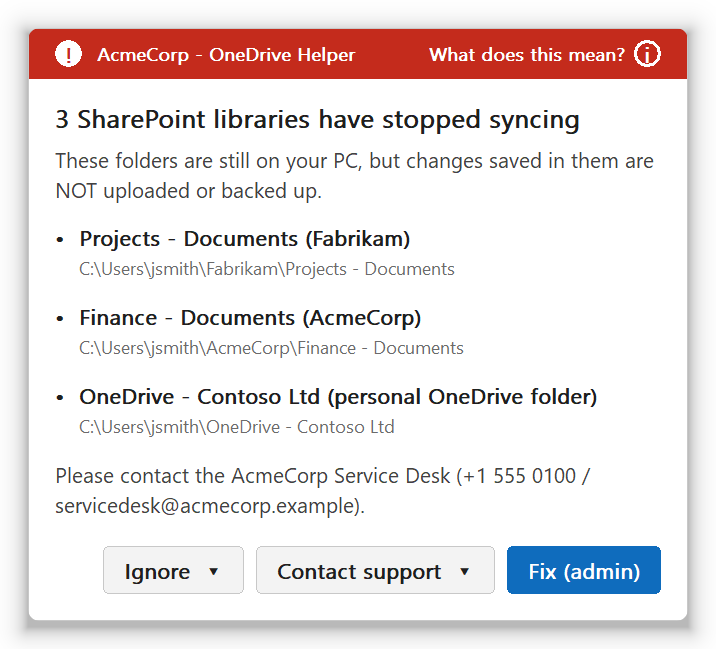
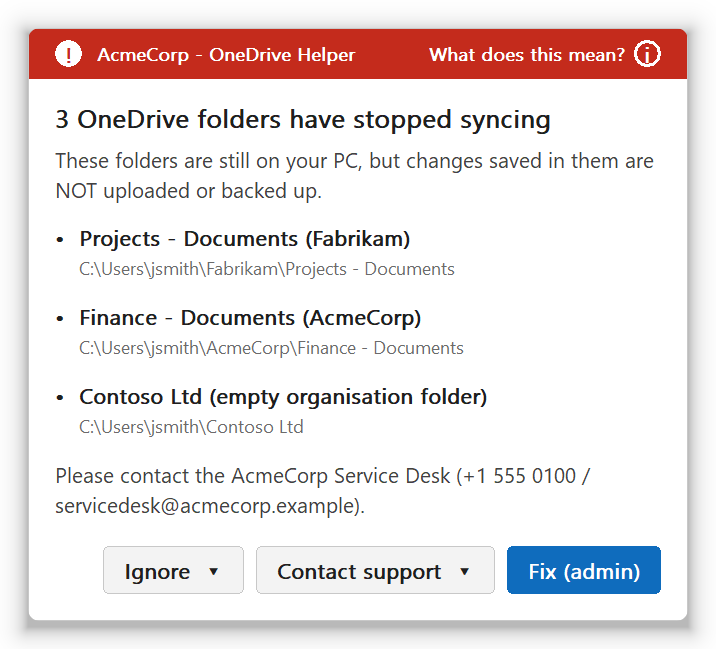
Stop flagging personal OneDrive folders (0.8.1)
A fresh PC signed in to a work account always has an empty, unused
"OneDrive" placeholder, which the folder check reported as a SharePoint
library that had stopped syncing. Personal folders are no longer reported
(and still never scanned as organisation folders). The alert heading now
says "OneDrive folder" when a leftover organisation folder is listed.

Generated with [Devin](https://devin.ai)

Changed region(s): [[0.1229, 0.5855, 0.8296, 0.678], [0.0922, 0.1541, 0.8296, 0.2157]]

diff --git a/internal/onedrive/onedrive_test.go b/internal/onedrive/onedrive_test.go
@@ -204,26 +204,50 @@ func TestFindOrphansEmptyAndPlainOrgFolders(t *testing.T) {
 	}
 }
 
-func TestFindOrphansPersonalAndKnownFolders(t *testing.T) {
+// Personal OneDrive folders are never reported, nor scanned as organisation
+// folders: a fresh PC signed in to a work account always has an unused,
+// empty "OneDrive" placeholder next to "OneDrive - <Org>".
+func TestFindOrphansIgnoresPersonalFolders(t *testing.T) {
 	profile := `C:\Users\jsmith`
-	live, old := filepath.Join(profile, "OneDrive - Contoso"), filepath.Join(profile, "OneDrive - OLD COMPANY")
+	live, plain, old := filepath.Join(profile, "OneDrive - Contoso"), filepath.Join(profile, "OneDrive"), filepath.Join(profile, "OneDrive - OLD COMPANY")
 	odIni := "[.ShellClassInfo]\r\nIconResource=C:\\Program Files\\Microsoft OneDrive\\OneDrive.exe,5"
 	fs := fakeFS{
 		dirs: map[string][]fsutil.Entry{
-			Clean(profile): {cloud("OneDrive - Contoso"), cloud("OneDrive - OLD COMPANY"), dir("OneDrive notes")},
+			Clean(profile): {cloud("OneDrive - Contoso"), dir("OneDrive"), cloud("OneDrive - OLD COMPANY"), dir("OneDrive notes")},
+			Clean(plain):   {{Name: "desktop.ini", Attr: 0x6}},
 			Clean(old):     {dir("Documents")},
 		},
-		files: map[string]string{Clean(filepath.Join(old, "desktop.ini")): odIni},
+		files: map[string]string{
+			Clean(filepath.Join(plain, "desktop.ini")): odIni,
+			Clean(filepath.Join(old, "desktop.ini")):   odIni,
+		},
 	}
-	in := Inputs{ProfileDir: profile, Accounts: []Account{{Key: "Business1", UserFolder: live, SyncedFolders: []string{live}}}}
+	in := Inputs{
+		ProfileDir: profile,
+		Accounts:   []Account{{Key: "Business1", UserFolder: live, SyncedFolders: []string{live}}},
+		Providers:  []Provider{{MountPoint: old, LibraryType: "mysite"}, {MountPoint: plain, LibraryType: "personal"}},
+	}
+	if got := FindOrphans(in, fs); len(got) != 0 {
+		t.Fatalf("personal OneDrive folders must not be flagged: %+v", got)
+	}
+}
+
+func TestFindOrphansKnownFolders(t *testing.T) {
+	profile := `C:\Users\jsmith`
+	org := filepath.Join(profile, "Fabrikam")
+	lib := filepath.Join(org, "Bids - Documents")
+	fs := fakeFS{
+		dirs: map[string][]fsutil.Entry{
+			Clean(profile): {dir("Fabrikam")},
+			Clean(org):     {cloud("Bids - Documents")},
+		},
+	}
+	in := Inputs{ProfileDir: profile, Providers: []Provider{{MountPoint: lib, LibraryType: "teamsite"}}}
 	got := FindOrphans(in, fs)
-	if len(got) != 1 || got[0].Path != old || !got[0].Personal || got[0].DisplayName() != "OneDrive - OLD COMPANY (personal OneDrive folder)" {
-		t.Fatalf("expected only the old personal folder (not the live one or a plain 'OneDrive notes' folder): %+v", got)
+	if len(got) != 1 || got[0].Path != lib || len(got[0].KnownFolders) != 0 {
+		t.Fatalf("expected only the library, with no known folders: %+v", got)
 	}
-	if len(got[0].KnownFolders) != 0 {
-		t.Errorf("no known folders expected: %v", got[0].KnownFolders)
-	}
-	in.ShellFolders = map[string]string{"Personal": filepath.Join(old, "Documents"), "Desktop": filepath.Join(live, "Desktop")}
+	in.ShellFolders = map[string]string{"Personal": filepath.Join(lib, "Documents"), "Desktop": filepath.Join(profile, "Desktop")}
 	got = FindOrphans(in, fs)
 	if len(got) != 1 || strings.Join(got[0].KnownFolders, ",") != "Documents" {
 		t.Errorf("Documents redirected into the orphan must be reported: %+v", got)

diff --git a/internal/onedrive/orphans.go b/internal/onedrive/orphans.go
@@ -22,9 +22,6 @@ type Orphan struct {
 	// EmptyOrg marks a leftover organisation folder that contains no
 	// libraries at all (Path == TenantRoot). There is nothing to re-sync.
 	EmptyOrg bool
-	// Personal marks a personal "OneDrive - <Org>" folder whose account is no
-	// longer signed in on this PC (Path == TenantRoot).
-	Personal bool
 	// KnownFolders lists Windows folders (Desktop, Documents, ...) that are
 	// redirected into this folder. Such folders are never removed automatically.
 	KnownFolders []string
@@ -33,14 +30,10 @@ type Orphan struct {
 // Org is the organisation folder name, e.g. "Contoso".
 func (o Orphan) Org() string { return filepath.Base(o.TenantRoot) }
 
-// DisplayName is "Library (Org)", "Org (empty organisation folder)" or
-// "OneDrive - Org (personal OneDrive folder)".
+// DisplayName is "Library (Org)" or "Org (empty organisation folder)".
 func (o Orphan) DisplayName() string {
-	switch {
-	case o.EmptyOrg:
+	if o.EmptyOrg {
 		return o.Name + " (empty organisation folder)"
-	case o.Personal:
-		return o.Name + " (personal OneDrive folder)"
 	}
 	if o.TenantRoot == "" {
 		return o.Name
@@ -232,26 +225,10 @@ func FindOrphans(in Inputs, fs FS) []Orphan {
 		}
 	}
 	var out []Orphan
-	personal := map[string]bool{}
-	addPersonal := func(p string) {
-		c := Clean(p)
-		if c == "" || personal[c] || c == profile || isVolumeRoot(c) || overlaps(c, active) {
-			return
-		}
-		personal[c] = true
-		out = append(out, Orphan{Path: p, TenantRoot: p, Name: filepath.Base(p), Personal: true})
-	}
-	// Personal OneDrive folders recorded by OneDrive that still exist.
-	for _, p := range in.Providers {
-		if t := strings.ToLower(p.LibraryType); p.MountPoint != "" && (t == "personal" || t == "mysite") {
-			if _, err := fs.ReadDir(p.MountPoint); err == nil {
-				addPersonal(p.MountPoint)
-			}
-		}
-	}
 	// Folders in the profile carrying OneDrive's desktop.ini: plain ones are
-	// organisation folders; "OneDrive..." placeholder ones are personal
-	// OneDrive folders (orphaned when no signed-in account uses them).
+	// organisation folders. "OneDrive..." ones are personal OneDrive folders,
+	// which are never reported (a fresh PC always has an unused, empty
+	// "OneDrive" folder) and never scanned as organisation folders.
 	if in.ProfileDir != "" {
 		entries, _ := fs.ReadDir(in.ProfileDir)
 		for _, e := range entries {
@@ -263,7 +240,7 @@ func FindOrphans(in Inputs, fs FS) []Orphan {
 			odIni := err == nil && strings.Contains(strings.ToLower(decodeText(b)), "onedrive.exe")
 			switch {
 			case strings.HasPrefix(strings.ToLower(e.Name), "onedrive") && (e.IsCloud() || odIni):
-				addPersonal(dir)
+				continue
 			case odIni && e.Attr&fsutil.AttrReparsePoint == 0:
 				addRoot(dir)
 			}

diff --git a/internal/remediate/flow.go b/internal/remediate/flow.go
@@ -240,7 +240,7 @@ func UserFlow(agentExe string, lg *log.Logger, busy func(bool), stop func() bool
 	manual := false
 	for _, it := range plan.Items {
 		list.WriteString("• " + it.Orphan.DisplayName() + "\n    " + ResyncNote(it.Orphan) + "\n")
-		manual = manual || (!it.Orphan.CanResync() && !it.Orphan.EmptyOrg && !it.Orphan.Personal)
+		manual = manual || (!it.Orphan.CanResync() && !it.Orphan.EmptyOrg)
 	}
 	step3 := "  3. Ask OneDrive to sync the libraries again\n"
 	if manual {
@@ -345,8 +345,6 @@ func ResyncNote(o onedrive.Orphan) string {
 		return "Contains your " + strings.Join(o.KnownFolders, "/") + " folder, so it can only be fixed by your support team."
 	case o.EmptyOrg:
 		return "Empty leftover folder - it will simply be removed."
-	case o.Personal:
-		return "Old copy of a personal OneDrive that is no longer being synced (for example after your organisation was renamed, or an account was removed). Anything saved here is not backed up."
 	case o.CanResync():
 		return "Will be synced again automatically."
 	case o.WebURL != "":
@@ -361,13 +359,9 @@ func Resync(orphans []onedrive.Orphan, lg *log.Logger) {
 	cfg := config.Load()
 	ev := elog.Open()
 	defer ev.Close()
-	var auto, manual, none, personal []string
+	var auto, manual, none []string
 	for _, o := range orphans {
 		if o.EmptyOrg || exists(o.Path) {
-			continue
-		}
-		if o.Personal {
-			personal = append(personal, o.Name)
 			continue
 		}
 		switch {
@@ -388,7 +382,7 @@ func Resync(orphans []onedrive.Orphan, lg *log.Logger) {
 			none = append(none, o.DisplayName())
 		}
 	}
-	if len(auto)+len(manual)+len(none)+len(personal) == 0 {
+	if len(auto)+len(manual)+len(none) == 0 {
 		return
 	}
 	ev.Info(elog.ResyncRequested, fmt.Sprintf("Re-sync requested. Automatic: %v; manual: %v; unknown: %v", auto, manual, none))
@@ -401,10 +395,6 @@ func Resync(orphans []onedrive.Orphan, lg *log.Logger) {
 	}
 	if len(none) > 0 {
 		b.WriteString("These libraries must be re-added manually. " + cfg.SupportContact() + "\n• " + strings.Join(none, "\n• ") + "\n\n")
-	}
-	if len(personal) > 0 {
-		b.WriteString("These old personal OneDrive folders were removed (your files were saved first). Files that were already in the cloud are still there:\n• " +
-			strings.Join(personal, "\n• ") + "\n")
 	}
 	winapi.Info(cfg.Title(), b.String())
 }

diff --git a/internal/remediate/buildplan_test.go b/internal/remediate/buildplan_test.go
@@ -143,11 +143,12 @@ func TestPlanRefusesFolderThatIsAJunction(t *testing.T) {
 	profile := t.TempDir()
 	target := filepath.Join(t.TempDir(), "Important")
 	must(t, os.MkdirAll(target, 0o755))
-	must(t, os.WriteFile(filepath.Join(target, "keep.txt"), []byte("x"), 0o644))
-	link := filepath.Join(profile, "OneDrive - Old Ltd")
+	ini := filepath.Join(target, "desktop.ini")
+	must(t, os.WriteFile(ini, []byte("[.ShellClassInfo]\r\nIconResource=C:\\Program Files\\Microsoft OneDrive\\OneDrive.exe,6"), 0o644))
+	link := filepath.Join(profile, "Old Ltd") // an empty organisation folder
 	junction(t, link, target)
 	withPlanEnv(t, onedrive.Inputs{ProfileDir: profile,
-		Providers: []onedrive.Provider{{MountPoint: link, LibraryType: "personal"}}}, onedrive.StateNotRunning)
+		Providers: []onedrive.Provider{{MountPoint: filepath.Join(link, "Gone - Documents"), LibraryType: "teamsite"}}}, onedrive.StateNotRunning)
 	p, err := plan(t, profile)
 	if err != nil {
 		t.Fatal(err)
@@ -155,7 +156,7 @@ func TestPlanRefusesFolderThatIsAJunction(t *testing.T) {
 	if len(p.Items) != 0 || len(p.LinkRefused) != 1 {
 		t.Fatalf("a folder that is itself a junction must be refused: items %+v refused %v", p.Items, p.LinkRefused)
 	}
-	if _, err := os.Stat(filepath.Join(target, "keep.txt")); err != nil {
+	if _, err := os.Stat(ini); err != nil {
 		t.Error("the junction's target must be untouched")
 	}
 }

diff --git a/internal/agent/status.go b/internal/agent/status.go
@@ -257,8 +257,7 @@ func Report(c config.Config, s Status, logPath string) string {
 // sample data (used for visual checks).
 func PreviewStatus(ui *popup.Manager, c config.Config) {
 	s := Status{At: time.Now(), Configured: true, Running: true, Orphans: []onedrive.Orphan{
-		{Name: "OneDrive - Contoso Ltd", Path: `C:\Users\jsmith\OneDrive - Contoso Ltd`,
-			TenantRoot: `C:\Users\jsmith\OneDrive - Contoso Ltd`, Personal: true},
+		{Name: "Contoso Ltd", Path: `C:\Users\jsmith\Contoso Ltd`, TenantRoot: `C:\Users\jsmith\Contoso Ltd`, EmptyOrg: true},
 		{Name: "Bids Team - Documents", Path: `C:\Users\jsmith\Fabrikam\Bids Team - Documents`, TenantRoot: `C:\Users\jsmith\Fabrikam`},
 	}}
 	nop := Actions{Relaunch: func() {}, Snooze: func(string, string) {}, Support: func() {}, Email: func() {}, Website: func() {},

diff --git a/internal/agent/messages.go b/internal/agent/messages.go
@@ -119,9 +119,15 @@ func orphanItems(orphans []onedrive.Orphan, note func(onedrive.Orphan) string) (
 }
 
 func orphanSpec(c config.Config, orphans []onedrive.Orphan, a Actions) popup.Spec {
-	title := "A SharePoint library has stopped syncing"
+	one, many := "A SharePoint library has", "SharePoint libraries have"
+	for _, o := range orphans {
+		if o.EmptyOrg {
+			one, many = "A OneDrive folder has", "OneDrive folders have"
+		}
+	}
+	title := one + " stopped syncing"
 	if len(orphans) > 1 {
-		title = fmt.Sprintf("%d SharePoint libraries have stopped syncing", len(orphans))
+		title = fmt.Sprintf("%d %s stopped syncing", len(orphans), many)
 	}
 	items, more := orphanItems(orphans, nil)
 	footer := c.SupportContact()

diff --git a/internal/agent/docs.go b/internal/agent/docs.go
@@ -26,7 +26,7 @@ func DemoOrphans() []onedrive.Orphan {
 			Library: &onedrive.Library{UserEmail: "jsmith@acmecorp.example", WebURL: "https://fabrikam.sharepoint.com/sites/projects"}},
 		{Name: "Finance - Documents", Path: `C:\Users\jsmith\AcmeCorp\Finance - Documents`, TenantRoot: `C:\Users\jsmith\AcmeCorp`,
 			WebURL: "https://acmecorp.sharepoint.com/sites/finance"},
-		{Name: "OneDrive - Contoso Ltd", Path: `C:\Users\jsmith\OneDrive - Contoso Ltd`, TenantRoot: `C:\Users\jsmith\OneDrive - Contoso Ltd`, Personal: true},
+		{Name: "Contoso Ltd", Path: `C:\Users\jsmith\Contoso Ltd`, TenantRoot: `C:\Users\jsmith\Contoso Ltd`, EmptyOrg: true},
 	}
 }
 

diff --git a/internal/agent/agent_test.go b/internal/agent/agent_test.go
@@ -88,6 +88,9 @@ func TestOrphanSpec(t *testing.T) {
 	if len(s.Items) != maxListed || s.Items[0].Path != `C:\Users\d\Org\A` || s.Items[0].Title != "•  A (Org)" {
 		t.Errorf("items: %+v", s.Items)
 	}
+	if got := orphanSpec(cfg, []onedrive.Orphan{{Name: "Old", Path: `C:\Users\d\Old`, TenantRoot: `C:\Users\d\Old`, EmptyOrg: true}}, Actions{}).Title; got != "A OneDrive folder has stopped syncing" {
+		t.Errorf("a leftover organisation folder is not a SharePoint library: %q", got)
+	}
 	var labels []string
 	for _, b := range s.Buttons {
 		labels = append(labels, b.Label)

diff --git a/cmd/OneDriveHelper/main.go b/cmd/OneDriveHelper/main.go
@@ -191,8 +191,6 @@ func check() error {
 			fmt.Printf("    contains the user's %s folder - will not be fixed automatically\n", strings.Join(o.KnownFolders, "/"))
 		case o.EmptyOrg:
 			fmt.Printf("    empty leftover organisation folder (nothing to re-sync)\n")
-		case o.Personal:
-			fmt.Printf("    old personal OneDrive folder that no signed-in account syncs\n")
 		case o.CanResync():
 			fmt.Printf("    re-sync: %s\n", o.Library.ResyncURL())
 		case o.WebURL != "":

diff --git a/internal/remediate/remediate.go b/internal/remediate/remediate.go
@@ -215,8 +215,6 @@ func (p *Plan) Summary() string {
 		switch {
 		case it.Orphan.EmptyOrg:
 			b.WriteString("    Empty leftover organisation folder; it will just be removed.\n")
-		case it.Orphan.Personal:
-			b.WriteString("    Old personal OneDrive folder that no signed-in account syncs any more; nothing to re-sync.\n")
 		case it.Orphan.CanResync():
 			b.WriteString("    Will be re-synced automatically afterwards.\n")
 		case it.Orphan.WebURL != "":

diff --git a/README.md b/README.md
@@ -2,8 +2,10 @@
 
 A small Windows tool that keeps an eye on OneDrive for your users, and tells them (and you) when something has quietly gone wrong.
 
-**Current version: 0.8.0** ([release notes and downloads](https://github.com/denismcapple/OneDriveHelper/releases/latest)). To see which version a PC is running, hover over the OneDrive Helper icon next to the clock, or run `"C:\Program Files\OneDriveHelper\OneDriveHelper.exe" version`.
+**Current version: 0.8.1** ([release notes and downloads](https://github.com/denismcapple/OneDriveHelper/releases/latest)). To see which version a PC is running, hover over the OneDrive Helper icon next to the clock, or run `"C:\Program Files\OneDriveHelper\OneDriveHelper.exe" version`.
 
+> **New in 0.8.1: no more false alarms on new PCs.** Personal OneDrive folders (`OneDrive`, `OneDrive - Something`) are no longer reported. A freshly set-up PC signed in to a work account always has an empty, unused `OneDrive` folder, which 0.7.0 and 0.8.0 wrongly flagged as "stopped syncing". The alert's heading now also says "OneDrive folder" rather than "SharePoint library" when the list includes a leftover organisation folder.
+>
 > **New in 0.8.0: a much safer fix.** The folder fix is the only part of the tool that deletes anything, so it now moves each folder out of the way before saving it, deletes only files it has proven it saved, puts everything back if anything is in doubt, and recovers by itself if it's interrupted. Upgrades wait for a fix in progress, and roll back if they fail. The details are in [How the fix works](#how-the-fix-works).
 
 <p align="center">
@@ -26,7 +28,8 @@ We got tired of finding out about these the hard way, so we wrote something that
 * **Finds folders that have stopped syncing.** It compares what's on disk with what OneDrive is actually syncing. It catches:
   * library folders OneDrive has dropped
   * leftover organisation folders
-  * old personal `OneDrive - Something` folders that no account uses any more
+
+  Personal OneDrive folders (`OneDrive`, `OneDrive - Something`) are never flagged.
 * **Explains it in plain English.** Every alert has a **What does this mean?** link written for people who don't know or care how OneDrive works.
 * **Makes it easy to get help.** **Contact support** offers to e-mail your service desk with a full diagnostic report already in the message, or to open your support website.
 * **Fixes broken folders safely**, after an administrator approves. It moves the folder aside, saves a copy of every file stored on the PC, deletes only the files it has proven it saved, then asks OneDrive to sync the library again. If anything is in doubt, nothing is deleted and the folder goes back where it was.
@@ -70,7 +73,7 @@ Each alert can be ignored for a while (5 minutes, 30 minutes, until the next res
 
 <img src="docs/images/tray-icons.png" width="160" alt="Tray icons: green tick, amber and red exclamation marks">
 
-Hover over it to see the version and a one-line summary, for example "AcmeCorp - OneDrive Helper v0.8.0 / Everything looks good". Click it to see the status window (the screenshot at the top of this page), which also lists any fix that didn't finish. Right-click for:
+Hover over it to see the version and a one-line summary, for example "AcmeCorp - OneDrive Helper v0.8.1 / Everything looks good". Click it to see the status window (the screenshot at the top of this page), which also lists any fix that didn't finish. Right-click for:
 
 * show status
 * show alerts again
@@ -267,15 +270,15 @@ RMM agents run scripts as SYSTEM, which already has the admin rights the install
 
 ### Install script (PowerShell)
 
-This works in NinjaOne, Datto RMM, N-able, ConnectWise Automate, Atera, Kaseya, Intune platform scripts and anything else that can run PowerShell as SYSTEM. It's filled in for v0.8.0; for a later release, change the version and copy the two checksums from that release's `SHA256SUMS.txt`. Paste your customer's settings into the JSON block.
+This works in NinjaOne, Datto RMM, N-able, ConnectWise Automate, Atera, Kaseya, Intune platform scripts and anything else that can run PowerShell as SYSTEM. It's filled in for v0.8.1; for a later release, change the version and copy the two checksums from that release's `SHA256SUMS.txt`. Paste your customer's settings into the JSON block.
 
 ```powershell
 # OneDrive Helper: install or upgrade with customer settings
 $ErrorActionPreference = 'Stop'
-$Version = 'v0.8.0'
+$Version = 'v0.8.1'
 $Hashes  = @{                       # from SHA256SUMS.txt on the release page
[4 lines of base64/hex data omitted]
 }
 $Settings = @'
 {
@@ -457,10 +460,9 @@ OneDrive keeps several records of what it syncs, and once a library is dropped t
 
 OneDrive's provider list is only used as history, because it keeps entries for libraries it stopped syncing long ago.
 
-The organisation folders OneDrive creates in the profile (they carry a OneDrive `desktop.ini`) are then checked. Anything inside one that isn't being synced is reported. So are:
+The organisation folders OneDrive creates in the profile (they carry a OneDrive `desktop.ini`) are then checked. Anything inside one that isn't being synced is reported. So is an organisation folder that's empty apart from `desktop.ini`.
 
-* an organisation folder that's empty apart from `desktop.ini`
-* an old `OneDrive - Something` folder that no signed-in account uses
+Personal OneDrive folders (`OneDrive`, `OneDrive - Something`) are never reported, even when no signed-in account uses them. Every PC signed in to a work account has an empty `OneDrive` placeholder, so flagging them would raise false alarms on almost every new machine.
 
 To reconnect a library automatically we need its site, web and list IDs. Those are recorded while the library is healthy. They can also be recovered from the `ClientPolicy` files OneDrive leaves behind, which means even libraries that broke before this tool was installed can usually be reconnected.
 
